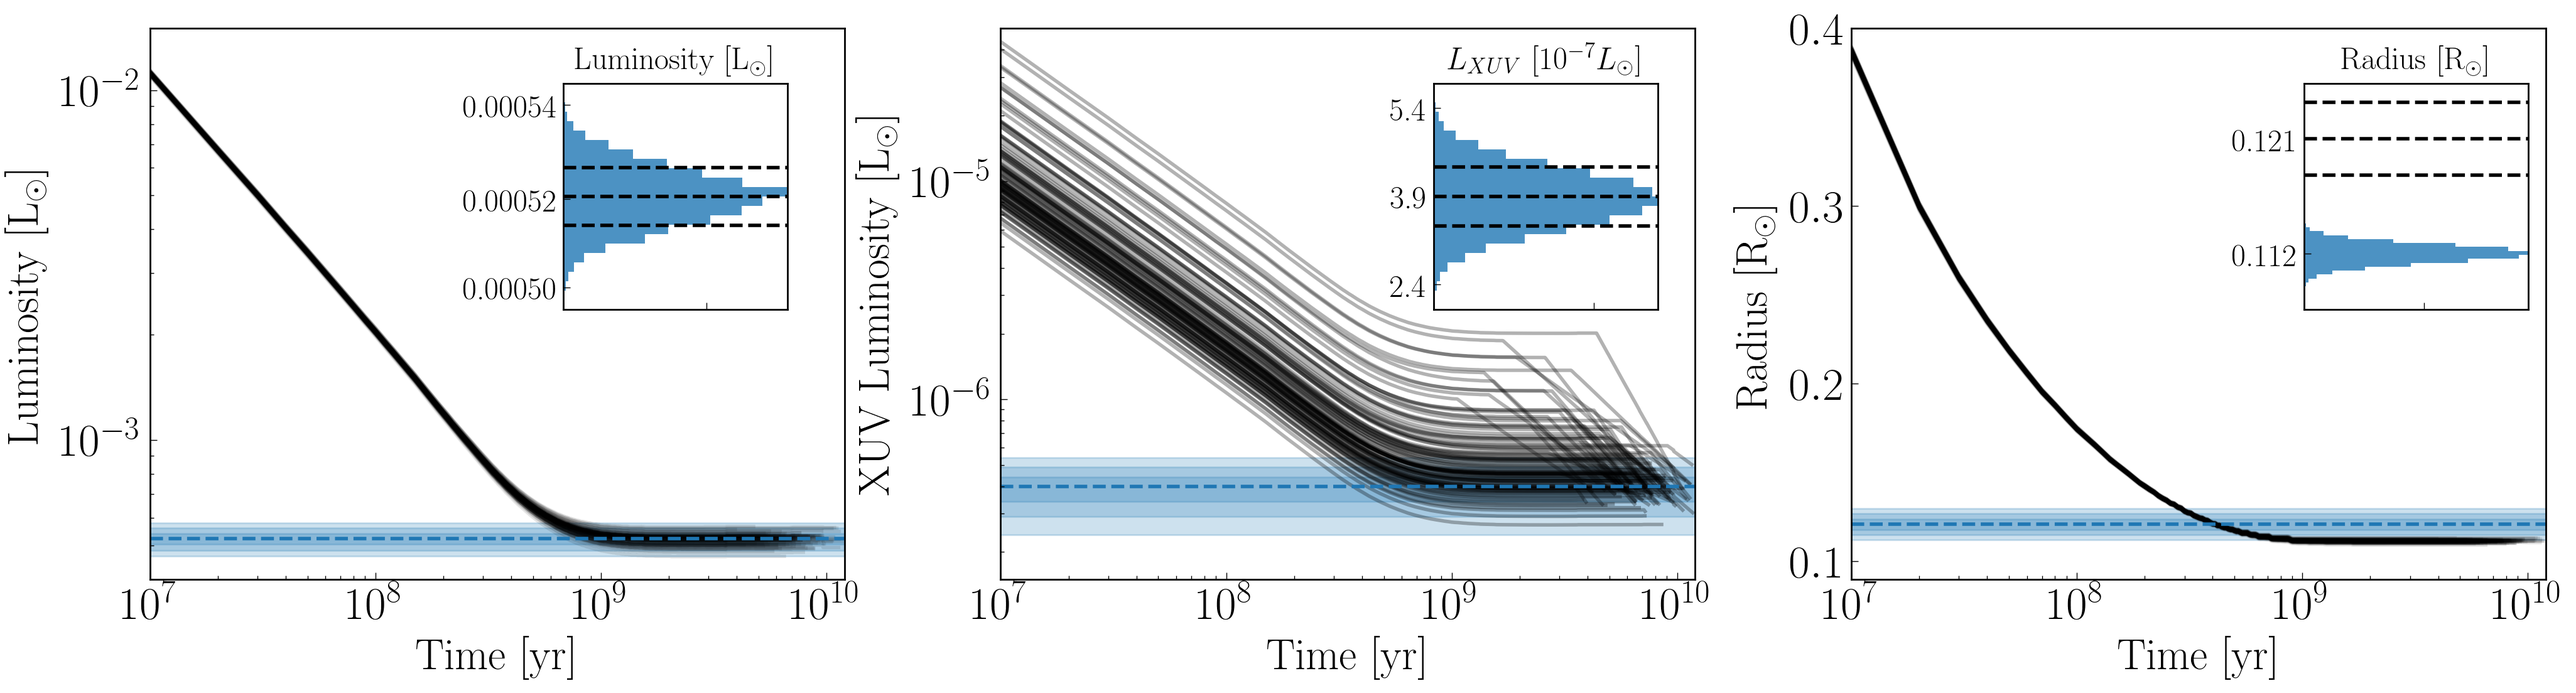
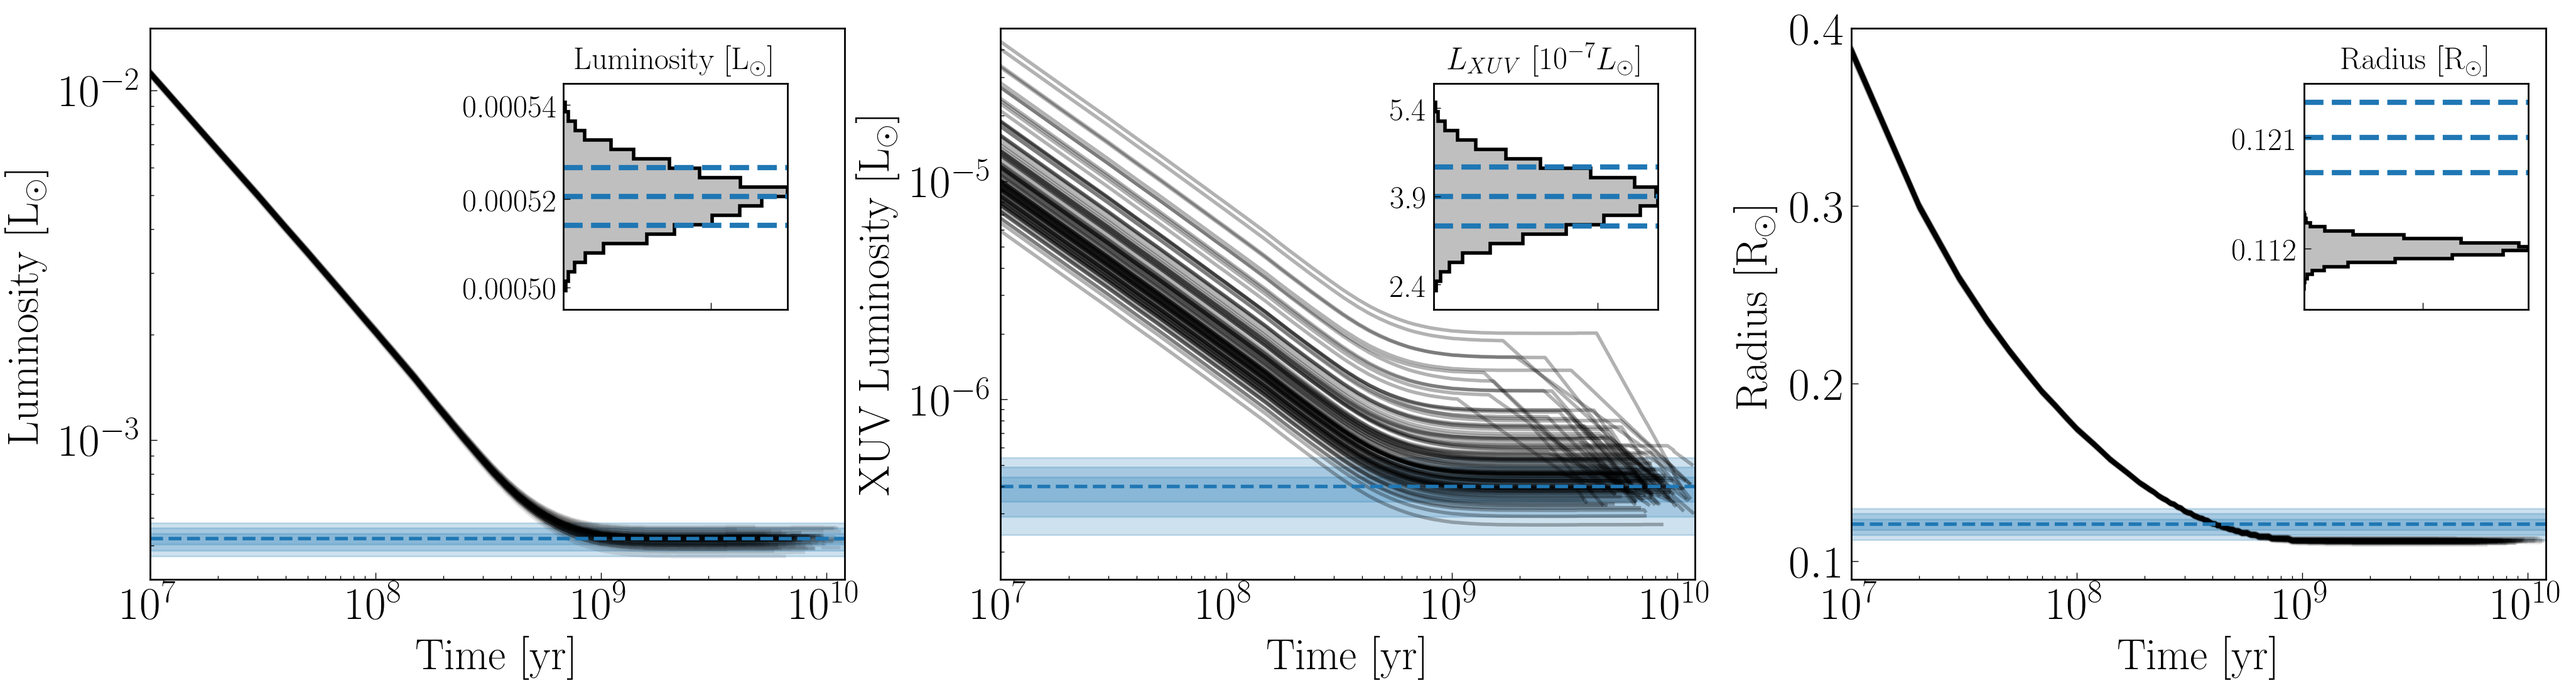
updated evol plot

diff --git a/Analysis/Evol/plotEvolTrappist1.py b/Analysis/Evol/plotEvolTrappist1.py
@@ -10,8 +10,8 @@ posterior distributions.
 Script output:
 
 Luminosity [Lsun] = 5.220000e-04 + 1.900000e-05 - 1.900000e-05
-LXUV [Lsun] = 3.868037e-07 + 4.930874e-08 - 5.000271e-08
-Radius [Rsun] = 0.111612 + 0.000738 - 0.000757
+LXUV [Lsun] = 3.866823e-07 + 4.876776e-08 - 4.998834e-08
+Radius [Rsun] = 0.111608 + 0.000750 - 0.000760
 
 """
 
@@ -36,7 +36,7 @@ data = np.load("../../Data/trappist1StarEvol.npz")
 nsamples = len(data["Luminosity"])
 
 chains, blobs = mcmcUtils.extractMCMCResults("../../Data/trappist1Fiducial.h5",
-                                             verbose=True, applyBurnin=True,
+                                             verbose=True, burn=500,
                                              thinChains=True, blobsExist=True)
 
 ### Plot Lum, LumXUV, radius evolution and compare to observations ###
@@ -92,11 +92,13 @@ axes[0].set_xscale("log")
 
 # Luminosity inset
 axLum = fig.add_axes([0.225, 0.55, 0.085, 0.3])
-axLum.hist(blobs[:,0], bins=20, orientation="horizontal", color="C0",
-           range=[0.00046, 0.000584], alpha=0.8);
-axLum.axhline(0.000522, lw=2, ls="--", color="k")
-axLum.axhline(0.000522+0.000019, lw=2, ls="--", color="k")
-axLum.axhline(0.000522-0.000019, lw=2, ls="--", color="k")
+axLum.hist(blobs[:,0], bins=20, orientation="horizontal", color="gray",
+           range=[0.00046, 0.000584], alpha=0.5);
+axLum.hist(blobs[:,0], bins=20, orientation="horizontal", color="k",
+          range=[0.00046, 0.000584], lw=2, histtype="step");
+axLum.axhline(0.000522, lw=3, ls="--", color="C0")
+axLum.axhline(0.000522+0.000019, lw=3, ls="--", color="C0")
+axLum.axhline(0.000522-0.000019, lw=3, ls="--", color="C0")
 
 # Format inset
 axLum.set_xlabel("")
@@ -124,11 +126,13 @@ axes[1].set_xscale("log")
 
 # LXUV inset
 axLXUV = fig.add_axes([0.555, 0.55, 0.085, 0.3])
-axLXUV.hist(blobs[:,1], bins=20, orientation="horizontal", color="C0",
-           range=[2.3e-7, 5.5e-7], alpha=0.8);
-axLXUV.axhline(3.4e-7, lw=2, ls="--", color="k")
-axLXUV.axhline(3.9e-7, lw=2, ls="--", color="k")
-axLXUV.axhline(4.4e-7, lw=2, ls="--", color="k")
+axLXUV.hist(blobs[:,1], bins=20, orientation="horizontal", color="gray",
+           range=[2.3e-7, 5.5e-7], alpha=0.5);
+axLXUV.hist(blobs[:,1], bins=20, orientation="horizontal", color="k",
+           range=[2.3e-7, 5.5e-7], lw=2, histtype="step");
+axLXUV.axhline(3.4e-7, lw=3, ls="--", color="C0")
+axLXUV.axhline(3.9e-7, lw=3, ls="--", color="C0")
+axLXUV.axhline(4.4e-7, lw=3, ls="--", color="C0")
 
 # Format inset
 axLXUV.set_xlabel("")
@@ -154,10 +158,13 @@ axes[2].set_ylim(0.09, 0.40)
 
 # Radius inset
 axRad = fig.add_axes([0.885, 0.55, 0.085, 0.3])
-axRad.hist(blobs[:,2], bins=20, orientation="horizontal", color="C0", alpha=0.8);
-axRad.axhline(0.118, lw=2, ls="--", color="k")
-axRad.axhline(0.121, lw=2, ls="--", color="k")
-axRad.axhline(0.124, lw=2, ls="--", color="k")
+axRad.hist(blobs[:,2], bins=20, orientation="horizontal", color="gray",
+           alpha=0.5);
+axRad.hist(blobs[:,2], bins=20, orientation="horizontal", color="k", lw=2,
+           histtype="step");
+axRad.axhline(0.118, lw=3, ls="--", color="C0")
+axRad.axhline(0.121, lw=3, ls="--", color="C0")
+axRad.axhline(0.124, lw=3, ls="--", color="C0")
 
 # Format inset
 axRad.set_xlabel("")
